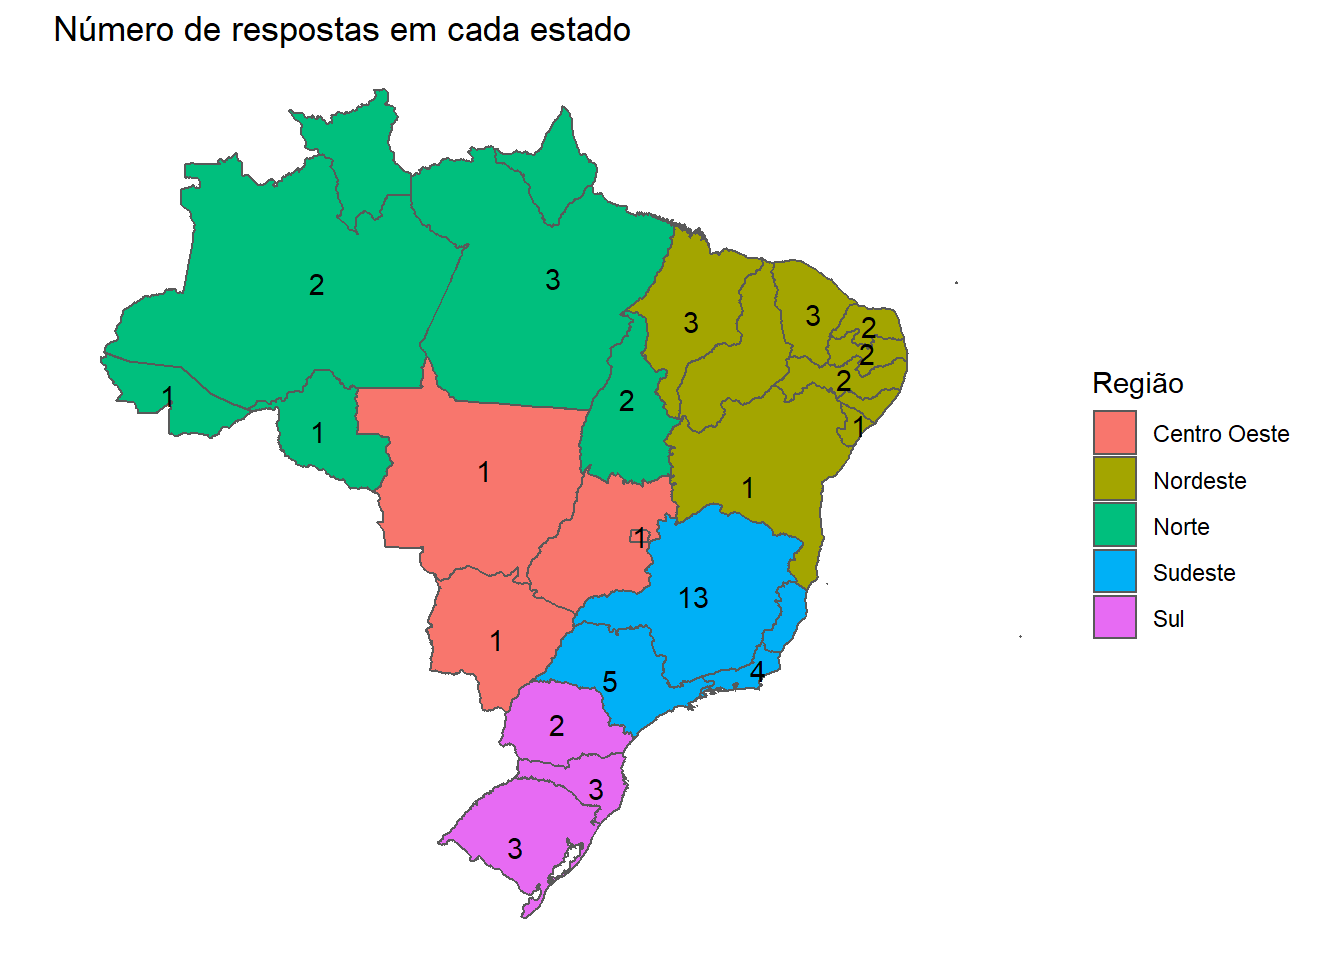
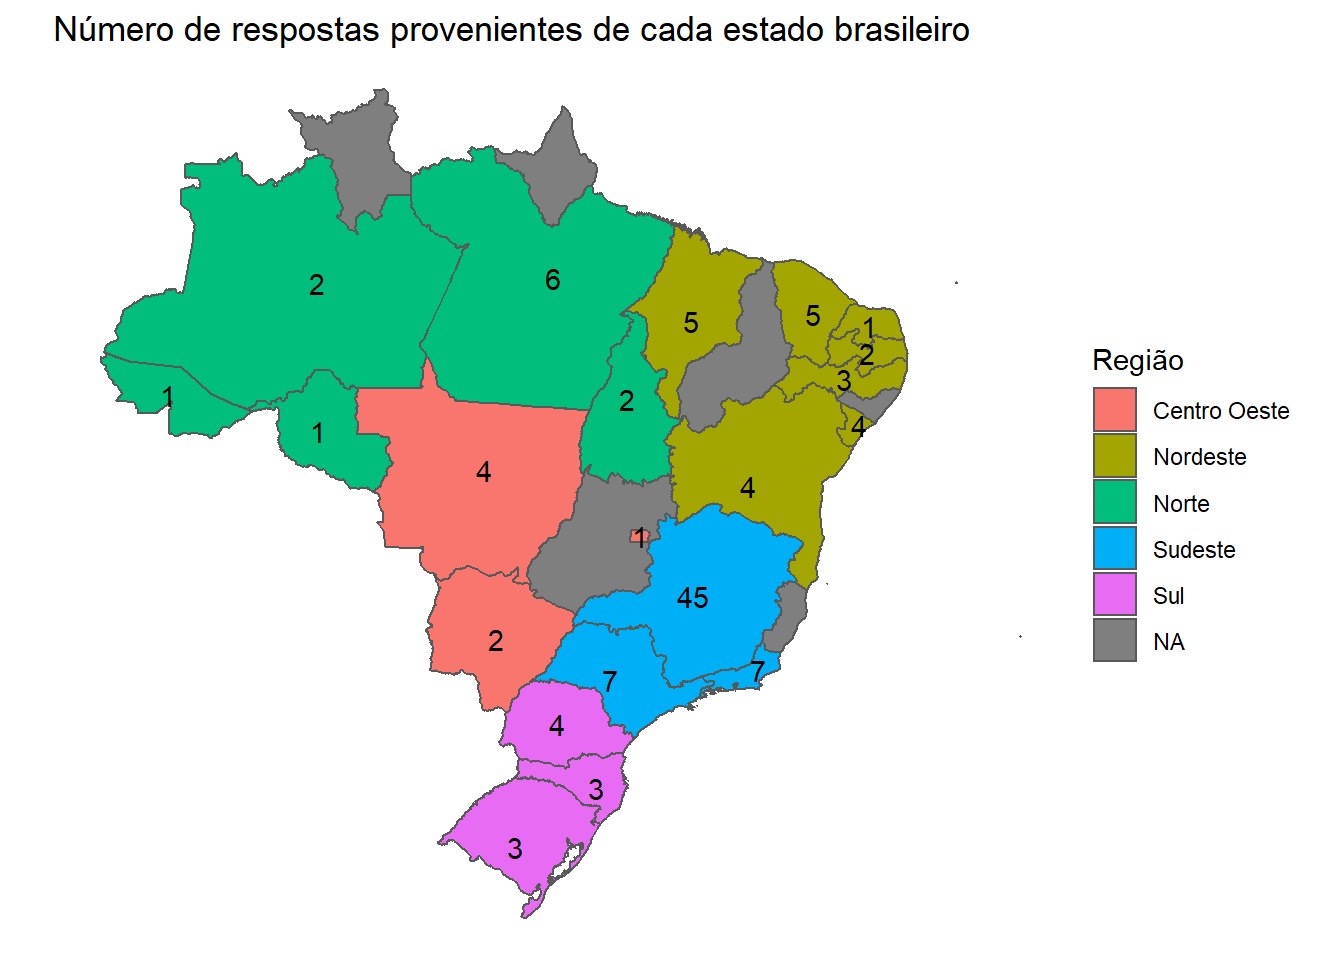
Add wordcloud

diff --git a/content/pt/post/2020-10-17-resultados-do-formulário-de-pesquisa-de-interesse-curso-introdutório-de-r/index.pt.html b/content/pt/post/2020-10-17-resultados-do-formulário-de-pesquisa-de-interesse-curso-introdutório-de-r/index.pt.html
@@ -17,10 +17,10 @@ tags: ["R Language", "Teaching"]
 <p>No momento em que estou montando essa análise, tivemos no total, 117 respostas ao formulário. Mesmo sendo um número relativamente pequeno de pessoas, atingimos os mais diversos locais do país, abrangendo todas as cinco regiões do país.</p>
 <pre class="r"><code>nrow(respostas)</code></pre>
 <pre><code>## [1] 117</code></pre>
-<p>As respostas ao formulário não tinham um padrão bem definido, e por isso algumas respostas tiveram que ser ajustadas. Ao final desse ajuste, percebemos que pessoas de 60 instituições diferentes responderam ao formulário.</p>
+<p>As respostas ao formulário não tinham um padrão bem definido, e por isso algumas respostas tiveram que ser ajustadas. Ao final desse ajuste, percebemos que pessoas de 61 instituições diferentes responderam ao formulário.</p>
 <pre class="r"><code>nrow(instituicoes)</code></pre>
-<pre><code>## [1] 60</code></pre>
-<p>A maior parte das instituições às quais os respondentes pertenciam, estão localizadas na região Sudeste, com 22 instituições, enquanto o Nordeste vem logo em seguida com 16 insituições. Agora, as instituições que não foram designadas para alguma região (<code>NA</code>), são na verdade instituições de fora do Brasil. Isso significa que tivemos 4 respostas vindas de outros países, ao formulário de interesse no curso.</p>
+<pre><code>## [1] 61</code></pre>
+<p>A maior parte das instituições às quais os respondentes pertenciam, estão localizadas na região Sudeste, com 22 instituições, enquanto o Nordeste vem logo em seguida com 16 insituições. Agora, as instituições que não foram designadas para alguma região (<code>NA</code>), são na verdade instituições de fora do Brasil. Isso significa que tivemos 5 respostas vindas de outros países, ao formulário de interesse no curso.</p>
 <pre class="r"><code>library(tidyverse)
 
 instituicoes %&gt;% 
@@ -31,44 +31,46 @@ instituicoes %&gt;%
 ##   Regiao       contagem
 ##   &lt;chr&gt;           &lt;int&gt;
 ## 1 Centro Oeste        3
-## 2 Nordeste           16
-## 3 Norte               8
+## 2 Nordeste           15
+## 3 Norte               9
 ## 4 Sudeste            22
 ## 5 Sul                 7
-## 6 &lt;NA&gt;                4</code></pre>
+## 6 &lt;NA&gt;                5</code></pre>
+<p>A maioria das pessoas que responderam ao formulário, provinham de instituições localizadas em Minas Gerais. Grande parte das respostas foram da UFOP (que é a instituição na qual estudo), totalizando 22 respostas. Além disso, não recebemos respostas de alguns estados, que estão marcados em cinza no gráfico abaixo:</p>
 <pre class="r"><code>library(geobr)
-library(tidyverse)
 
 brasil &lt;- read_state()</code></pre>
-<pre class="r"><code>contagem &lt;- instituicoes %&gt;%
-  group_by(Estado) %&gt;%
+<pre class="r"><code>resp_sum &lt;- respostas %&gt;%
+  select(Regiao, Instituicao, abbrev, Estado) %&gt;%
+  group_by(Estado, Regiao) %&gt;%
   summarise(contagem = n())</code></pre>
-<pre><code>## `summarise()` ungrouping output (override with `.groups` argument)</code></pre>
+<pre><code>## `summarise()` regrouping output by &#39;Estado&#39; (override with `.groups` argument)</code></pre>
 <pre class="r"><code>brasil &lt;- brasil %&gt;%
-  left_join(contagem, by = c(&quot;name_state&quot; = &quot;Estado&quot;))
+  left_join(resp_sum, by = c(&quot;name_state&quot; = &quot;Estado&quot;))
 
 ggplot(data = brasil) +
-  geom_sf(aes(fill = name_region)) +
+  geom_sf(aes(fill = Regiao)) +
   stat_sf_coordinates(
     aes(label = contagem),
     geom = &quot;text&quot;
   ) +
   theme_void() +
   labs(
-    title = &quot;Número de respostas em cada estado&quot;,
+    title = &quot;Número de respostas provenientes de cada estado brasileiro&quot;,
     fill = &quot;Região&quot;
   )</code></pre>
 <pre><code>## Warning in st_point_on_surface.sfc(sf::st_zm(x)): st_point_on_surface may not
 ## give correct results for longitude/latitude data</code></pre>
 <pre><code>## Warning: Removed 6 rows containing missing values (geom_text).</code></pre>
 <p><img src="/pt/post/2020-10-17-resultados-do-formulário-de-pesquisa-de-interesse-curso-introdutório-de-r/index.pt_files/figure-html/unnamed-chunk-6-1.png" width="672" /></p>
-<p>Talvez o mais impressionante de tudo isso, é que tivemos pessoas de outros países interessadas no curso. Cada um desses outros países obtiveram apenas uma assinatura, mas mesmo assim, é no mínimo interessante ver o quão longe fomos. Os países atingidos (fora o Brasil), e as respectivas instituições dessas pessoas foram: Venezuela (Universidad de Carabobo); Cuba (Universidad de la Havana); Moçambique (ISRI - Instituto Superior De Relações Internacionais); e Peru (Universidad Nacional de Ingeniaria).</p>
+<p>Talvez o mais impressionante de tudo isso, é que tivemos pessoas de outros países interessadas no curso. Cada um desses outros países obtiveram apenas uma assinatura, mas mesmo assim, é no mínimo interessante ver o quão longe fomos. Os países atingidos (fora o Brasil), e as respectivas instituições dessas pessoas foram: Venezuela (Universidad de Carabobo); Cuba (Universidad de la Havana); Moçambique (ISRI - Instituto Superior De Relações Internacionais); e Peru (Universidad Nacional de Ingeniaria); Portugal (Universidade de Lisboa).</p>
 <pre class="r"><code>cores &lt;- c(
   &quot;Brazil&quot; = &quot;#F8766D&quot;,
   &quot;Cuba&quot; = &quot;#BB9D00&quot;,
   &quot;Mozambique&quot; = &quot;#7CAE00&quot;,
   &quot;Venezuela&quot; = &quot;#00A5FF&quot;,
   &quot;Peru&quot; = &quot;#E76BF3&quot;,
+  &quot;Portugal&quot; = &quot;#4fc953&quot;,
   &quot;Não foi atingido&quot; = &quot;#d4d4d4&quot;
 )
 
@@ -89,6 +91,36 @@ ggplot(data = world) +
     breaks = unname(cores)
   )</code></pre>
 <p><img src="/pt/post/2020-10-17-resultados-do-formulário-de-pesquisa-de-interesse-curso-introdutório-de-r/index.pt_files/figure-html/unnamed-chunk-8-1.png" width="672" /></p>
+</div>
+<div id="assuntos-requisitados" class="section level1">
+<h1>Assuntos requisitados</h1>
+<p>O R é uma linguagem que foi criada por estatísticos, e por isso, é uma linguagem especializada em análise de dados e estatística. Com isso, não é nenhuma surpresa que Econometria e Análise de Séries Temporais, tenham sido as principais sugestões e assuntos requisitados para o curso, pelas pessoas que responderam o formulário.</p>
+<pre class="r"><code>library(wordcloud)
+library(RColorBrewer)
+
+assuntos &lt;- respostas %&gt;%
+  filter(!is.na(Assunto)) %&gt;%
+  group_by(Assunto) %&gt;%
+  count() %&gt;%
+  arrange(n)
+
+cor &lt;- brewer.pal(6, &quot;Dark2&quot;)
+names(cor) &lt;- c(&quot;1&quot;, &quot;3&quot;, &quot;5&quot;, &quot;8&quot;, &quot;2&quot;, &quot;4&quot;)
+assuntos$color &lt;- cor[as.character(assuntos$n)]
+
+
+wordcloud(
+  words = assuntos$Assunto,
+  freq = assuntos$n,
+  min.freq = 1,
+  max.words = 200,
+  ordered.colors = TRUE,
+  rot.per = 0.35,
+  use.r.layout = FALSE,
+  scale = c(2,0.5),
+  colors = assuntos$color
+)</code></pre>
+<p><img src="wordcloud.png" /><!-- --></p>
 </div>
 <div class="footnotes">
 <hr />
